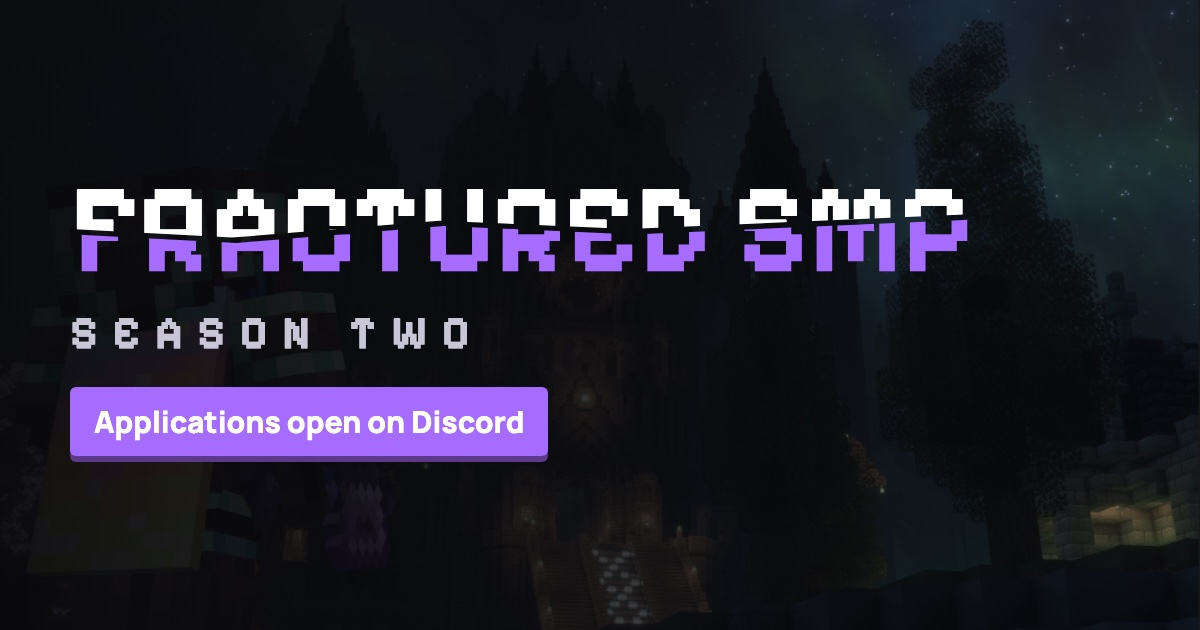
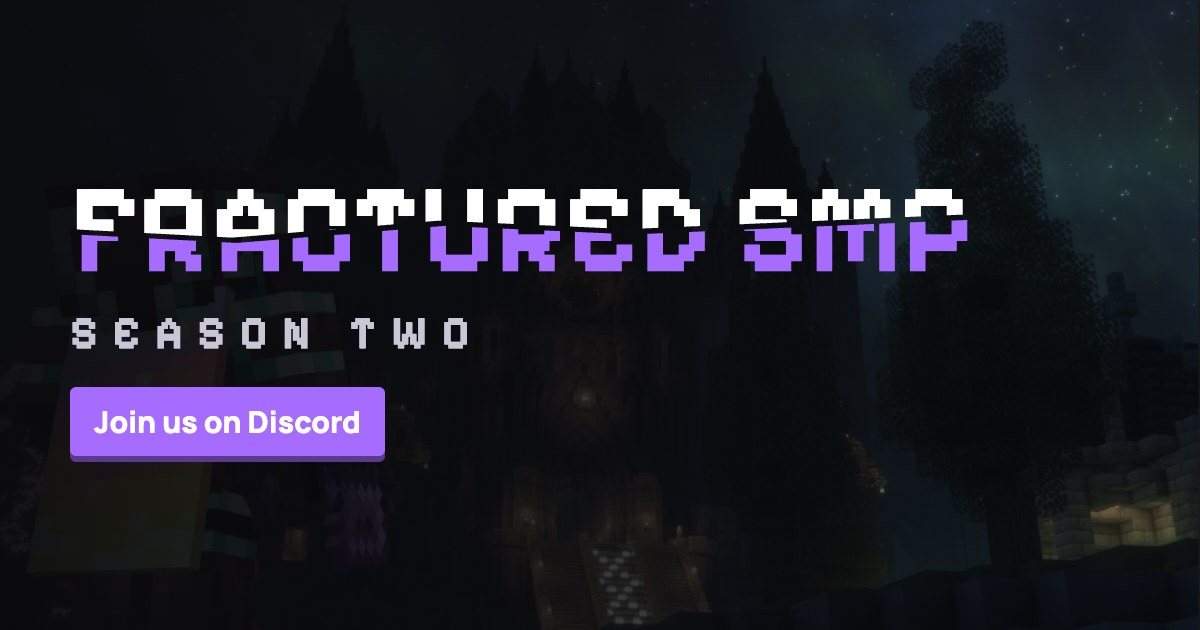
Restyle join steps, add DirectActionDigital credit, neutral Discord wording + new link preview

Changed region(s): [[0.0617, 0.6032, 0.4625, 0.754]]

diff --git a/index.html b/index.html
@@ -3,10 +3,10 @@
 <meta charset="utf-8">
 <meta name="viewport" content="width=device-width,initial-scale=1,viewport-fit=cover">
 <link rel="canonical" href="https://wearefractured.com/">
-<meta name="description" content="Fractured SMP Season Two. A Minecraft survival multiplayer server with rivalries, mace PvP and six creator POVs. Applications open on Discord.">
+<meta name="description" content="Fractured SMP Season Two. A Minecraft survival multiplayer server with rivalries, mace PvP and six creator POVs. Join us on Discord.">
 <meta name="theme-color" content="#0a0a0c">
 <link rel="icon" type="image/png" sizes="32x32" href="favicon-32.png"><link rel="icon" type="image/png" sizes="512x512" href="icon-512.png"><link rel="apple-touch-icon" href="apple-touch-icon.png">
-<meta property="og:type" content="website"><meta property="og:site_name" content="Fractured SMP"><meta property="og:title" content="Fractured SMP · Season Two"><meta property="og:description" content="Season Two applications are open. Join the Discord to get in."><meta property="og:url" content="https://wearefractured.com/"><meta property="og:image" content="https://wearefractured.com/og.jpg"><meta property="og:image:width" content="1200"><meta property="og:image:height" content="630">
+<meta property="og:type" content="website"><meta property="og:site_name" content="Fractured SMP"><meta property="og:title" content="Fractured SMP · Season Two"><meta property="og:description" content="Six creators, one world. Join us on Discord."><meta property="og:url" content="https://wearefractured.com/"><meta property="og:image" content="https://wearefractured.com/og.jpg"><meta property="og:image:width" content="1200"><meta property="og:image:height" content="630">
 <meta name="twitter:card" content="summary_large_image"><meta name="twitter:image" content="https://wearefractured.com/og.jpg">
 <link rel="preconnect" href="https://fonts.googleapis.com"><link rel="preconnect" href="https://fonts.gstatic.com" crossorigin><link rel="preconnect" href="https://i.ytimg.com">
 <link rel="preload" as="image" href="img/shot-3.jpg">
@@ -101,9 +101,11 @@ body::before{content:"";position:fixed;inset:0 0 auto;height:env(safe-area-inset
 .lede{max-width:58ch;font-size:clamp(17px,2vw,20px);color:var(--ink-dim);margin:0}
 .lede strong{color:var(--ink)}
 .cta-row{display:flex;flex-wrap:wrap;gap:12px;align-items:center}
-.steps{display:flex;flex-wrap:wrap;gap:10px 28px;margin:6px 0 0;padding:0;list-style:none;font-size:14px;color:var(--ink-dim);counter-reset:s}
-.steps li{display:flex;gap:10px;align-items:center;counter-increment:s}
-.steps li::before{content:counter(s);font-family:var(--f-display);width:24px;height:24px;display:grid;place-items:center;background:var(--surface);border:1px solid var(--line);border-radius:3px;color:var(--accent);font-size:13px}
+.steps{display:grid;width:100%;grid-template-columns:repeat(3,minmax(0,1fr));max-width:720px;margin:34px 0 0;padding:0;list-style:none;counter-reset:s;background:rgba(18,18,24,.62);border:1px solid var(--line);border-radius:10px;-webkit-backdrop-filter:blur(8px);backdrop-filter:blur(8px)}
+.steps li{counter-increment:s;padding:16px 20px;font-size:15px;font-weight:600;line-height:1.35;color:var(--ink)}
+.steps li+li{border-left:1px solid var(--line)}
+.steps li::before{content:"STEP 0" counter(s);display:block;margin-bottom:6px;font-family:var(--f-display);font-size:12px;letter-spacing:.14em;color:var(--accent)}
+@media (max-width:600px){.steps{grid-template-columns:1fr;margin-top:28px}.steps li{padding:14px 18px}.steps li+li{border-left:0;border-top:1px solid var(--line)}}
 
 /* ---------- sections ---------- */
 section.block{padding-block:84px}
@@ -229,6 +231,7 @@ footer a:hover{color:var(--ink)}
 .nav ul a{display:inline-flex;align-items:center;min-height:44px}
 .logo{min-height:44px}
 footer a{display:inline-flex;align-items:center;min-height:44px}
+footer .credit{flex-basis:100%;border-top:1px solid var(--line);padding-top:10px;margin-top:6px;font-size:13px}footer .credit a{color:var(--ink);font-weight:600}footer .credit a:hover{color:var(--accent)}
 @media (hover:none){.thumb .play{opacity:1}}
 @media (max-width:520px){.hero > .wrap{padding-block:40px 56px;gap:22px}.status{font-size:12px}.cta-row .btn{flex:1 1 auto;justify-content:center}}
 .nav .wrap{position:relative}
@@ -256,7 +259,7 @@ footer a{display:inline-flex;align-items:center;min-height:44px}
     </div>
   </nav>
   <div class="wrap">
-    <span class="status"><i></i><span id="memberStatus">Season Two applications open · 123 members on Discord</span></span>
+    <span class="status"><i></i><span id="memberStatus">Season Two · 123 members on Discord</span></span>
     <h1 class="title" aria-label="Fractured SMP Season Two">
       <span class="line frac" aria-hidden="true"><span class="top">FRACTURED&nbsp;SMP</span><span class="bot">FRACTURED&nbsp;SMP</span></span>
       <span class="line smp" aria-hidden="true">SEASON TWO</span>
@@ -347,6 +350,7 @@ footer a{display:inline-flex;align-items:center;min-height:44px}
   <div class="wrap">
     <span>© 2026 Fractured SMP. Not an official Minecraft product. Not approved by or associated with Mojang or Microsoft.</span>
     <span><a href="privacy.html">Privacy Policy</a> · <a href="terms.html">Terms</a></span>
+    <span class="credit">Built and powered by <a href="https://directactiondigital.com" target="_blank" rel="noopener">DirectActionDigital.com</a></span>
   </div>
 </footer>
 
@@ -484,7 +488,7 @@ footer a{display:inline-flex;align-items:center;min-height:44px}
     if (Array.isArray(d.episodes)) { const ok = d.episodes.filter(e => e && okId(e.id)).map(e => [e.id, fmt(okDate(e.published)), esc(e.title)]); if (ok.length >= 5) eps = ok; }
     if (Number.isInteger(d.members) && d.members > 0 && d.members < 1e7) {
       const n = d.members;
-      const st = document.getElementById('memberStatus'); if (st) st.textContent = `Season Two applications open · ${n} members on Discord`;
+      const st = document.getElementById('memberStatus'); if (st) st.textContent = `Season Two · ${n} members on Discord`;
       hof[2].cards[0][1] = String(n);
     }
     const tl = hof[2].cards.find(c => c[2] === 'Timeline episodes'); if (tl) tl[1] = String(eps.length);

diff --git a/terms.html b/terms.html
@@ -33,6 +33,7 @@ a{color:var(--accent)}
 footer{border-top:1px solid var(--line);padding-block:28px;color:var(--ink-dim);font-size:14px}
 footer .wrap{max-width:1180px;display:flex;flex-wrap:wrap;gap:12px 24px;justify-content:space-between}
 footer a{color:var(--ink-dim);display:inline-flex;align-items:center;min-height:44px}
+footer .credit{flex-basis:100%;border-top:1px solid var(--line);padding-top:10px;margin-top:6px;font-size:13px}footer .credit a{color:var(--ink);font-weight:600}footer .credit a:hover{color:var(--accent)}
 :focus-visible{outline:3px solid var(--accent);outline-offset:3px}
 </style></head><body>
 <header><div class="wrap"><a href="./" aria-label="Fractured SMP home"><img src="wordmark.png" alt="Fractured SMP" width="1245" height="164"></a><a class="home" href="./">← Back to home</a></div></header>
@@ -53,13 +54,13 @@ footer a{color:var(--ink-dim);display:inline-flex;align-items:center;min-height:
 </ul>
 
 <h2>Joining the server</h2>
-<p>Applications and access to the Minecraft server are handled through our <a href="https://discord.gg/RD2mYCt4y8" target="_blank" rel="noopener">Discord server</a>. To join you must:</p>
+<p>Access to the Minecraft server is handled through our <a href="https://discord.gg/RD2mYCt4y8" target="_blank" rel="noopener">Discord server</a>. To join you must:</p>
 <ul>
   <li>Meet Discord's minimum age requirement and follow the <a href="https://discord.com/terms" target="_blank" rel="noopener">Discord Terms of Service</a>.</li>
   <li>Own a legitimate copy of Minecraft and follow the <a href="https://www.minecraft.net/eula" target="_blank" rel="noopener">Minecraft End User License Agreement</a>.</li>
   <li>Follow the server rules posted in the Discord.</li>
 </ul>
-<p>Staff decide who is accepted. Staff may warn, mute, suspend or remove any player who breaks the rules, and that decision is final.</p>
+<p>Staff decide who can play. Staff may warn, mute, suspend or remove any player who breaks the rules, and that decision is final.</p>
 
 <h2>Creators and videos</h2>
 <p>Videos, channel names and profile pictures shown on this site belong to the creators who made them. If you are a featured creator and want something changed or removed, ask the staff in the Discord and we will update it. Clicking a video opens it on YouTube, where <a href="https://www.youtube.com/t/terms" target="_blank" rel="noopener">YouTube's Terms of Service</a> apply. Creators are responsible for their own channels and content.</p>
@@ -80,5 +81,5 @@ footer a{color:var(--ink-dim);display:inline-flex;align-items:center;min-height:
 <p>Questions about these terms can be sent to the staff in our <a href="https://discord.gg/RD2mYCt4y8" target="_blank" rel="noopener">Discord server</a>.</p>
 
 </div></main>
-<footer><div class="wrap"><span>© 2026 Fractured SMP. Not an official Minecraft product. Not approved by or associated with Mojang or Microsoft.</span><span><a href="privacy.html">Privacy Policy</a> · <a href="terms.html">Terms</a></span></div></footer>
+<footer><div class="wrap"><span>© 2026 Fractured SMP. Not an official Minecraft product. Not approved by or associated with Mojang or Microsoft.</span><span><a href="privacy.html">Privacy Policy</a> · <a href="terms.html">Terms</a></span><span class="credit">Built and powered by <a href="https://directactiondigital.com" target="_blank" rel="noopener">DirectActionDigital.com</a></span></div></footer>
 </body></html>

diff --git a/privacy.html b/privacy.html
@@ -33,6 +33,7 @@ a{color:var(--accent)}
 footer{border-top:1px solid var(--line);padding-block:28px;color:var(--ink-dim);font-size:14px}
 footer .wrap{max-width:1180px;display:flex;flex-wrap:wrap;gap:12px 24px;justify-content:space-between}
 footer a{color:var(--ink-dim);display:inline-flex;align-items:center;min-height:44px}
+footer .credit{flex-basis:100%;border-top:1px solid var(--line);padding-top:10px;margin-top:6px;font-size:13px}footer .credit a{color:var(--ink);font-weight:600}footer .credit a:hover{color:var(--accent)}
 :focus-visible{outline:3px solid var(--accent);outline-offset:3px}
 </style></head><body>
 <header><div class="wrap"><a href="./" aria-label="Fractured SMP home"><img src="wordmark.png" alt="Fractured SMP" width="1245" height="164"></a><a class="home" href="./">← Back to home</a></div></header>
@@ -62,7 +63,7 @@ footer a{color:var(--ink-dim);display:inline-flex;align-items:center;min-height:
   <li><a href="https://discord.com/privacy" target="_blank" rel="noopener">Discord Privacy Policy</a></li>
   <li><a href="https://policies.google.com/privacy" target="_blank" rel="noopener">YouTube (Google) Privacy Policy</a></li>
 </ul>
-<p>Joining the server happens on Discord. Anything you share there, including applications, messages and your username, is handled by Discord and the server's moderators, not by this website.</p>
+<p>Joining the server happens on Discord. Anything you share there, including messages and your username, is handled by Discord and the server's moderators, not by this website.</p>
 
 <h2>Cookies</h2>
 <p>This site does not set its own cookies or use tracking or advertising tools.</p>
@@ -77,5 +78,5 @@ footer a{color:var(--ink-dim);display:inline-flex;align-items:center;min-height:
 <p>Questions about this policy can be sent to the staff in our <a href="https://discord.gg/RD2mYCt4y8" target="_blank" rel="noopener">Discord server</a>.</p>
 
 </div></main>
-<footer><div class="wrap"><span>© 2026 Fractured SMP. Not an official Minecraft product. Not approved by or associated with Mojang or Microsoft.</span><span><a href="privacy.html">Privacy Policy</a> · <a href="terms.html">Terms</a></span></div></footer>
+<footer><div class="wrap"><span>© 2026 Fractured SMP. Not an official Minecraft product. Not approved by or associated with Mojang or Microsoft.</span><span><a href="privacy.html">Privacy Policy</a> · <a href="terms.html">Terms</a></span><span class="credit">Built and powered by <a href="https://directactiondigital.com" target="_blank" rel="noopener">DirectActionDigital.com</a></span></div></footer>
 </body></html>

diff --git a/404.html b/404.html
@@ -34,6 +34,7 @@ footer{border-top:1px solid var(--line);padding-block:28px;color:var(--ink-dim);
 footer .wrap{max-width:1180px;display:flex;flex-wrap:wrap;gap:12px 24px;justify-content:space-between}
 footer a{color:var(--ink-dim);display:inline-flex;align-items:center;min-height:44px}
 :focus-visible{outline:3px solid var(--accent);outline-offset:3px}
+footer .credit{flex-basis:100%;border-top:1px solid var(--line);padding-top:10px;margin-top:6px;font-size:13px}footer .credit a{color:var(--ink);font-weight:600}footer .credit a:hover{color:var(--accent)}
 </style></head><body>
 <header><div class="wrap"><a href="/" aria-label="Fractured SMP home"><img src="/wordmark.png" alt="Fractured SMP" width="1245" height="164"></a><a class="home" href="/">← Back to home</a></div></header>
 <main><div class="wrap">
@@ -42,5 +43,5 @@ footer a{color:var(--ink-dim);display:inline-flex;align-items:center;min-height:
 <p>This page fell through a crack in the map. It may have moved, or the link might be wrong.</p>
 <p style="display:flex;gap:12px;flex-wrap:wrap;margin-top:28px"><a href="/" style="display:inline-flex;align-items:center;min-height:48px;padding:0 22px;background:var(--accent);color:#fff;font-weight:800;text-decoration:none;border-radius:4px">Back to home</a><a href="https://discord.gg/RD2mYCt4y8" target="_blank" rel="noopener" style="display:inline-flex;align-items:center;min-height:48px;padding:0 22px;border:2px solid var(--line);color:#fff;font-weight:800;text-decoration:none;border-radius:4px">Join the Discord</a></p>
 </div></main>
-<footer><div class="wrap"><span>© 2026 Fractured SMP. Not an official Minecraft product. Not approved by or associated with Mojang or Microsoft.</span><span><a href="/privacy.html">Privacy Policy</a> · <a href="/terms.html">Terms</a></span></div></footer>
+<footer><div class="wrap"><span>© 2026 Fractured SMP. Not an official Minecraft product. Not approved by or associated with Mojang or Microsoft.</span><span><a href="/privacy.html">Privacy Policy</a> · <a href="/terms.html">Terms</a></span><span class="credit">Built and powered by <a href="https://directactiondigital.com" target="_blank" rel="noopener">DirectActionDigital.com</a></span></div></footer>
 </body></html>
